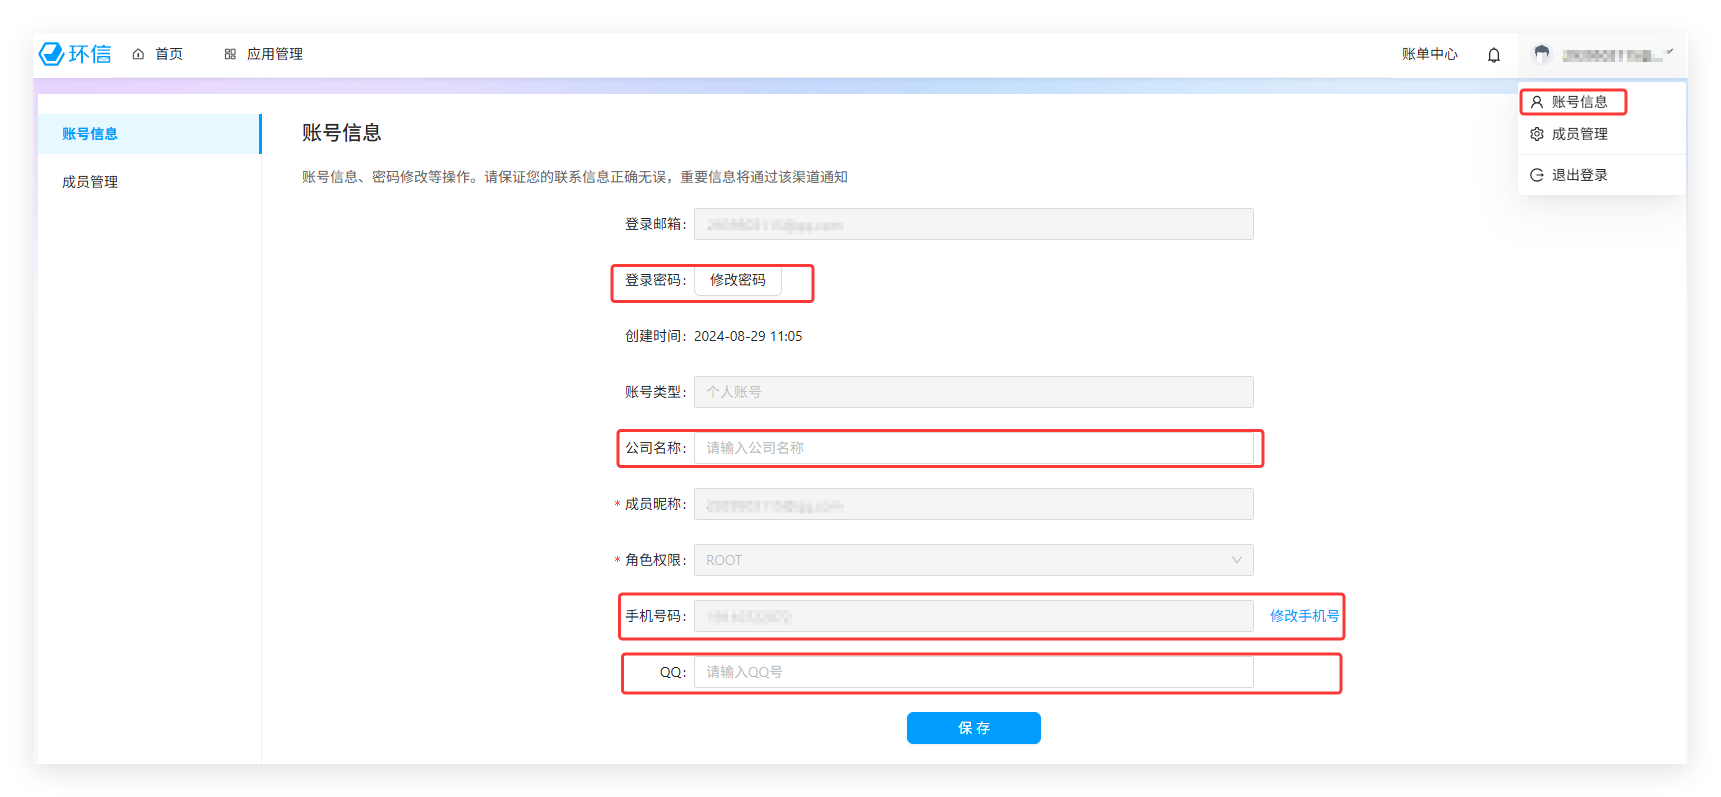
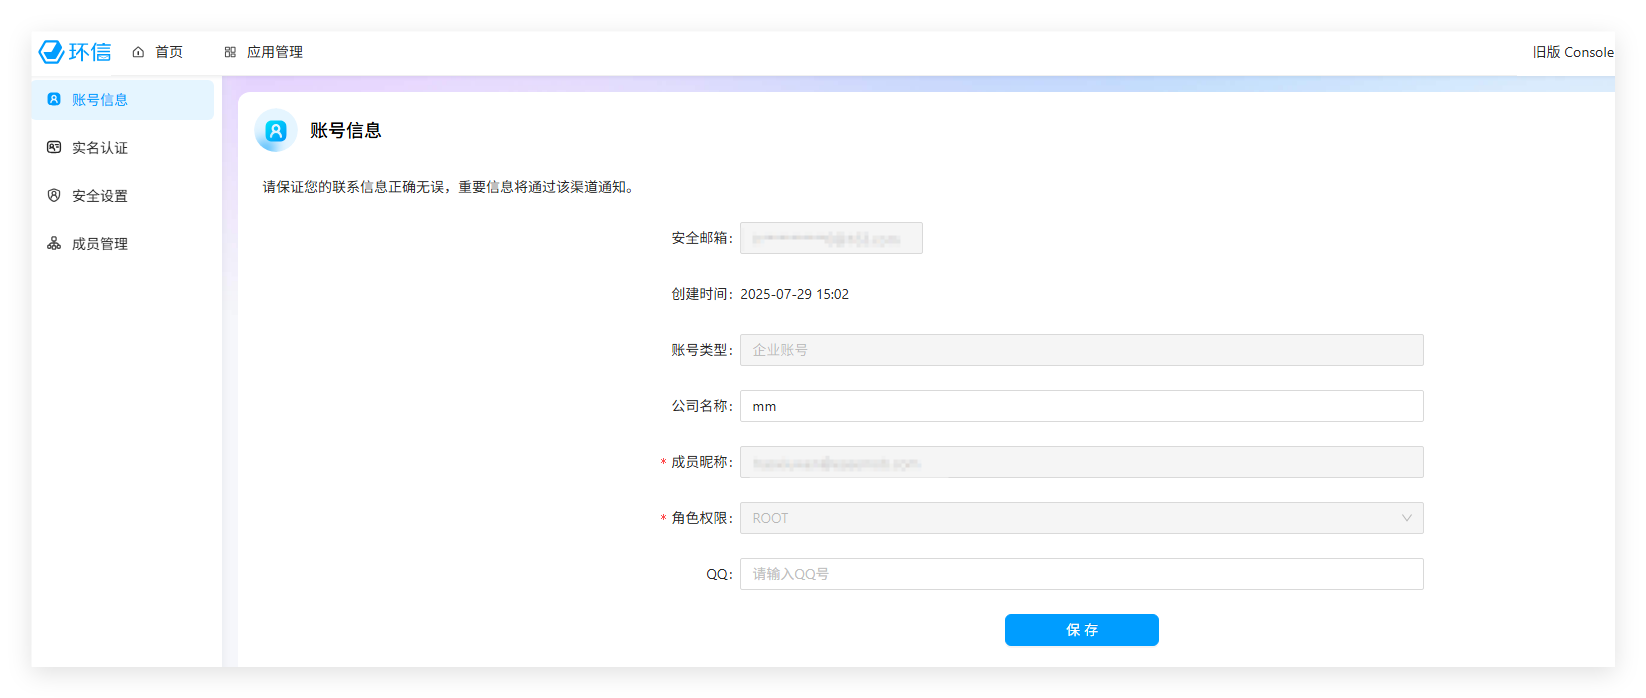
Add Security Settings Doc for Console

diff --git a/docs/.vuepress/sidebar/index.ts b/docs/.vuepress/sidebar/index.ts
@@ -256,7 +256,20 @@ export const zhSidebar = sidebar({
         { text: "账号管理", 
             collapsible: true,
             children: [
-            { text: "修改账户信息", link: "console/account_modify.html" },
+            { text: "查看账户信息", link: "console/account_modify.html" },
+            {
+             text: "安全设置",
+             collapsible: true,
+             children: [
+             { text: "绑定 MFA 设备", link: "console/account_security_mfa_bind.html" },
+            { text: "解绑 MFA 设备", link: "console/account_security_mfa_unbind.html" },
+            { text: "登录保护", link: "console/account_security_protection_login.html" },
+            { text: "操作保护", link: "console/account_security_protection_operation.html" },
+            { text: "修改账户密码", link: "console/account_security_password_change.html" },
+            { text: "修改手机号和邮箱", link: "console/account_security_mobile_email.html" },
+             ],
+            },
+            { text: "找回账户密码", link: "console/account_password_retrieve.html" },
             { text: "创建子账号", link: "console/account_sub_create.html" },
           ],
         },

diff --git a/docs/product/console/account_security_mfa_bind.md b/docs/product/console/account_security_mfa_bind.md
@@ -1,0 +1,78 @@
+# 绑定 MFA 设备
+
+## 概述
+
+MFA（Multi-Factor Authentication）即多重身份验证，是一种通过要求用户提供两种或两种以上不同类型的身份证明来验证其身份的安全技术。MFA 验证比传统的仅凭用户名和密码（单因素验证）更安全，因为它在密码被盗的情况下仍能提供额外的安全层。
+
+目前，环信即时通讯 IM 支持两种 MFA 设备： Google Authenticator 和 Microsoft Authenticator。
+
+:::tip
+1. 如用户绑定了多种认证方式，优先级从高到低分别为：MFA 验证、手机+验证码、邮箱+验证码。
+2. 如果您需要换 MFA 设备，请参见 [解绑 MFA 设备](account_security_MFA_unbind.html) 进行解绑后，再根据以下步骤绑定新的 MFA 设备。
+:::
+
+## MFA 验证前提
+
+通过以下两种方式登录时，可进行二次验证：
+- 手机号+密码
+- 邮箱+密码
+
+因此，你需要正确绑定手机号或邮箱的至少一种，否则无法进行 MFA 认证。
+
+若通过手机号+验证码登录，则不触发二次验证。
+
+## 绑定步骤 
+
+1. 登录 [环信控制台](https://console.easemob.com/user/login)。
+2. 鼠标悬停或单击右上角账号管理下拉菜单，选择 **账号信息**。
+3. 在左侧导航栏中选择 **安全设置**。
+4. 在右侧的 **安全设置** 页面中，在 **基本设置** 一栏中点击 **绑定**。
+5. 进行身份验证。
+   你可以通过手机或邮箱进行身份验证。例如，进行手机验证，点击 **获取验证码**，拖动滑块，输入验证码。
+
+   ![img](/images/console/account_security_auth_code.png)
+
+6. 选择 MFA 应用，绑定环信账号。
+   
+   确保你在手机上已经安装 Google Authenticator 或 Microsoft Authenticator。
+   
+   例如，在手机上打开 Google Authenticator 应用，扫描右侧二维码。
+
+   ![img](/images/console/account_security_qr_code.png)
+
+7. 输入扫描后的第一组 MFA 动态口令。
+
+   ![img](/images/console/account_security_dynamic_code.png)
+
+8.  设定启用范围，登录保护操作保护。
+   - 默认勾选 **登录保护**，即在登录时必须验证 MFA 设备上的 6 位动态安全码。
+   - 若你勾选了 **操作保护**，在环信控制台进行敏感操作时必须验证 MFA 设备上的 6 位动态安全码。
+  
+   ![img](/images/console/account_security_dynamic_code_scope.png)
+
+9.  单击 **提交**，弹出如下界面，完成 MFA 设备绑定。
+
+   注：**如果你要卸载 Authenticator/Microsoft Authenticator 或者更换手机，请记得解绑 MFA 并重新绑定**。
+
+   ![img](/images/console/account_security_bind_success.png)
+
+
+    
+       
+
+
+
+   
+
+
+ 
+
+
+
+
+
+
+
+
+
+

diff --git a/docs/product/console/account_security_protection_operation.md b/docs/product/console/account_security_protection_operation.md
@@ -1,0 +1,61 @@
+# 操作保护
+
+## 概述
+
+操作保护指你在环信控制台进行敏感操作时，环信给你提供的保护。
+
+开启操作保护后，你在进行如下敏感操作时，需要首先进行身份认证：
+- [修改账号密码](account_security_password_change.html)
+- [修改账号绑定的手机号和邮箱](account_security_mobile_email.html)
+- [开启和关闭登录保护](account_security_protection_login.html)
+- [添加、激活和移除成员]()
+- [关闭操作保护](account_security_protection_operation.html)
+
+## 操作保护类型
+
+| 操作保护类型       | 描述   |
+| :--------- | :----- |
+| 开启 MFA 验证       | 进行敏感操作前，输入 MFA 验证码完成认证。  |
+| 开启手机验证码认证       | 进行敏感操作前，输入手机号和验证码完成认证。<br/>使用这种保护的前提是你的账号成功绑定了手机号。 |
+| 开启邮箱验证码认证     | 进行敏感操作前，输入邮箱和验证码完成认证。<br/>使用这种保护的前提是你的账号已完成了 [邮箱认证](account_register.html#注册账号)。  |
+
+## 开启操作保护
+
+1. 登录 [环信控制台](https://console.easemob.com/user/login)。
+2. 鼠标悬停或单击右上角账号管理下拉菜单，选择 **账号信息**。
+3. 在左侧导航栏中选择 **安全设置**。
+4. 在右侧的 **安全设置** 页面中，在 **账号保护** 一栏中开启操作保护。
+   
+   ![img](/images/console/account_security_operation_protection_enable.png)
+
+5. 在弹出的对话框中点击 **确定**，完成开启操作保护。
+   
+   ![img](/images/console/account_security_operation_protection_confirm.png)
+
+## 关闭操作保护
+
+1. 登录 [环信控制台](https://console.easemob.com/user/login)。
+2. 鼠标悬停或单击右上角账号管理下拉菜单，选择 **账号信息**。
+3. 在左侧导航栏中选择 **安全设置**。
+4. 在右侧的 **安全设置** 页面中，在 **账号保护** 一栏中关闭操作保护。
+   
+   ![img](/images/console/account_security_operation_protection_disable.png)
+
+5. 进行身份验证。
+   例如，输入 MFA 验证码。若开启了 MFA 验证，该验证优先级最高。
+
+   ![img](/images/console/account_security_operation_protection_auth.png)
+
+ 6. 在弹出的确认关闭操作的对话框中，点击 **确定**。  
+
+    ![img](/images/console/account_security_operation_protection_disable_confirm.png)
+
+
+
+
+
+
+
+
+
+

diff --git a/docs/product/console/account_security_protection_login.md b/docs/product/console/account_security_protection_login.md
@@ -1,0 +1,49 @@
+# 登录保护
+
+## 概述
+
+登录保护指你在登录环信控制台时，环信会为你提供额外保护。登录保护开启后，你在输入用户 ID 和密码后，还需要额外输入验证码进行身份认证。
+
+## 登录保护类型
+
+| 登录保护类型       | 描述   |
+| :--------- | :----- |
+| 开启 MFA 验证       | 登录时，输入用户 ID 和密码后，再输入 MFA 验证码完成登录。  |
+| 开启手机验证码认证       | 登录时，输入用户 ID 和密码后，再输入手机号和验证码完成登录。<br/>使用这种保护的前提是你的账号成功绑定了手机号。 |
+| 开启邮箱验证码认证     | 登录时，输入用户 ID 和密码后，再输入邮箱和验证码完成登录。<br/>使用这种保护的前提是你的账号已完成了 [邮箱认证](account_register.html#注册账号)。  |
+
+:::tip
+三种登录保护类型的优先级从高到低分别为：MFA 验证、手机验证码和邮箱验证码认证。
+:::
+
+## 开启登录保护
+
+1. 登录 [环信控制台](https://console.easemob.com/user/login)。
+2. 鼠标悬停或单击右上角账号管理下拉菜单，选择 **账号信息**。
+3. 在左侧导航栏中选择 **安全设置**。
+4. 在右侧的 **安全设置** 页面中，在 **账号保护** 一栏中开启登录保护。
+   
+   ![img](/images/console/account_security_login_protection_enable.png)
+
+5. 在弹出的对话框中点击 **确定**，完成开启登录保护。
+   
+   ![img](/images/console/account_security_login_protection_confirm.png)
+
+## 关闭登录保护
+
+1. 登录 [环信控制台](https://console.easemob.com/user/login)。
+2. 鼠标悬停或单击右上角账号管理下拉菜单，选择 **账号信息**。
+3. 在左侧导航栏中选择 **安全设置**。
+4. 在右侧的 **安全设置** 页面中，在 **账号保护** 一栏中关闭登录保护。
+   
+   ![img](/images/console/account_security_login_protection_disable.png)
+   
+
+   
+
+   
+
+
+
+
+

diff --git a/docs/product/console/account_password_retrieve.md b/docs/product/console/account_password_retrieve.md
@@ -1,0 +1,49 @@
+# 找回密码
+
+你可以通过手机号或邮箱找回环信账号的登录密码。默认通过手机号找回密码。
+
+## 通过手机号找回密码
+
+1. 在环信控制台的登录页面，点击 **忘记密码**。
+   
+   ![img](/images/console/account_security_password_forget.png)
+   
+2. 在 **找回密码** 页面，填入手机号，点击获取验证码，拖动滑块，然后点击 **申请找回密码**。
+
+   ![img](/images/console/account_security_password_retrieve.png)
+
+3. 在 **重置密码** 页面，填写新密码，点击 **重置密码**。
+
+   ![img](/images/console/account_security_password_reset.png)
+
+4. 页面上方弹出重置成功的提示。你可以利用新密码登录控制台。 
+
+   ![img](/images/console/account_security_password_retrieve_login.png)
+
+## 通过邮箱找回密码
+
+1. 在环信控制台的邮箱登录页面，点击 **忘记密码**。
+
+   ![img](/images/console/account_security_password_forget.png)
+
+2. 点击 **通过邮箱**，输入邮箱地址，点击 **申请找回密码**。
+   
+   页面上方提示前往邮箱查看。
+
+   ![img](/images/console/account_security_password_retrieve_email.png)
+
+   ![img](/images/console/account_security_password_retrieve_prompt.png)
+
+3. 登录你的邮箱，点击重置密码链接。
+   
+   ![img](/images/console/account_security_password_retrieve_link.png)
+   
+4. 在重置密码页面输入新密码，确认新密码，然后点击 **重置密码**。
+
+   ![img](/images/console/account_security_password_retrieve_reset_2.png)
+
+5. 页面上方弹出重置成功的提示。你可以利用新密码登录控制台。 
+
+   ![img](/images/console/account_security_password_retrieve_login.png)
+   
+

diff --git a/docs/product/console/account_security_mobile_email.md b/docs/product/console/account_security_mobile_email.md
@@ -1,0 +1,41 @@
+# 修改手机号和邮箱
+
+## 修改手机号
+
+你可以按照以下步骤修改环信账号绑定的手机号：
+
+1. 登录 [环信控制台](https://console.easemob.com/user/login)。
+2. 鼠标悬停或单击右上角账号管理下拉菜单，选择 **账号信息**。
+3. 在左侧导航栏中选择 **安全设置**。
+4. 在右侧的 **安全设置** 页面中，在 **基本设置** 一栏中点击 **修改安全手机**。
+   
+   ![img](/images/console/account_security_mobile_change.png)
+   
+5. 若开启了 [操作保护](account_security_operation_protection.html)，首先进行身份认证，例如，进行 MFA 验证。
+
+    ![img](/images/console/account_security_password_auth.png)  
+
+6. 输入新手机号，填写验证码，点击 **确认修改**。
+
+    ![img](/images/console/account_security_mobile_success.png)  
+
+
+## 修改邮箱
+
+你可以按照以下步骤修改环信账号绑定的手机号：
+
+1. 登录 [环信控制台](https://console.easemob.com/user/login)。
+2. 鼠标悬停或单击右上角账号管理下拉菜单，选择 **账号信息**。
+3. 在左侧导航栏中选择 **安全设置**。
+4. 在右侧的 **安全设置** 页面中，在 **基本设置** 一栏中点击 **修改安全邮箱**。
+   
+   ![img](/images/console/account_security_email_change.png)
+
+5. 若开启了 [操作保护](account_security_operation_protection.html)，首先进行身份认证，例如，进行 MFA 验证。
+
+    ![img](/images/console/account_security_password_auth.png) 
+
+6. 输入新邮箱，填写验证码，点击 **确认修改**。
+   
+   ![img](/images/console/account_security_email_success.png) 
+

diff --git a/docs/product/console/account_security_mfa_unbind.md b/docs/product/console/account_security_mfa_unbind.md
@@ -1,0 +1,29 @@
+# 解绑 MFA 设备
+
+## 概述
+
+若你不再需要 MFA 验证或更换 MFA 设备，可以解绑 MFA 设备。对于更换 MFA 设备，你在解绑 MFA 设备后，可以重新绑定新的 MFA 设备，详见 [绑定 MFA 设备](account_security_MFA_bind.html)。
+
+:::tip
+解绑 MFA 设备后，将自动关闭该账号在环信控制台的登录和操作保护中的 MFA 验证。
+:::
+
+## 解绑步骤
+
+1. 登录 [环信控制台](https://console.easemob.com/user/login)。
+2. 鼠标悬停或单击右上角账号管理下拉菜单，选择 **账号信息**。
+3. 在左侧导航栏中选择 **安全设置**。
+4. 在右侧的 **安全设置** 页面中，在 **基本设置** 一栏中点击 **解绑**。
+5. 进行身份验证，输入 6 位动态验证码。
+   **验证方式** 默认为 **MFA 验证**，你也可以使用手机验证码或邮箱验证码。
+
+   ![img](/images/console/account_security_auth_unbind.png)
+
+6. 确认解绑后，点击 **确定**，完成解绑。 
+
+![img](/images/console/account_security_unbind_confirm.png)
+
+
+
+
+

diff --git a/docs/product/console/account_security_password_change.md b/docs/product/console/account_security_password_change.md
@@ -1,0 +1,16 @@
+# 修改密码
+
+1. 登录 [环信控制台](https://console.easemob.com/user/login)。
+2. 鼠标悬停或单击右上角账号管理下拉菜单，选择 **账号信息**。
+3. 在左侧导航栏中选择 **安全设置**。
+4. 在右侧的 **安全设置** 页面中，在 **基本设置** 一栏中找到账号密码，点击 **修改**。
+   
+   ![img](/images/console/account_security_password_change.png)
+
+5. 若开启了 [操作保护](account_security_operation_protection.html)，首先进行身份认证，例如，进行 MFA 验证。
+
+    ![img](/images/console/account_security_password_auth.png)
+
+6. 输入当前密码和新密码，点击 **保存**。
+
+    ![img](/images/console/account_security_password_success.png)

diff --git a/docs/product/console/account_modify.md b/docs/product/console/account_modify.md
@@ -2,7 +2,7 @@
 
 1. 登录 [环信控制台](https://console.easemob.com/user/login)。
 2. 鼠标悬停或单击右上角账号管理下拉菜单，选择 **账号信息**。
-3. 在 **账号信息** 页面，你可以修改账号信息，包括登录密码、公司名称、手机号码和 QQ 号。
+3. 在 **账号信息** 页面，你可以修改账号信息，包括公司名称和 QQ 号。
 4. 修改后，点击 **保存** 保存你的修改。
 
 ![img](/images/console/account_modify.png)
